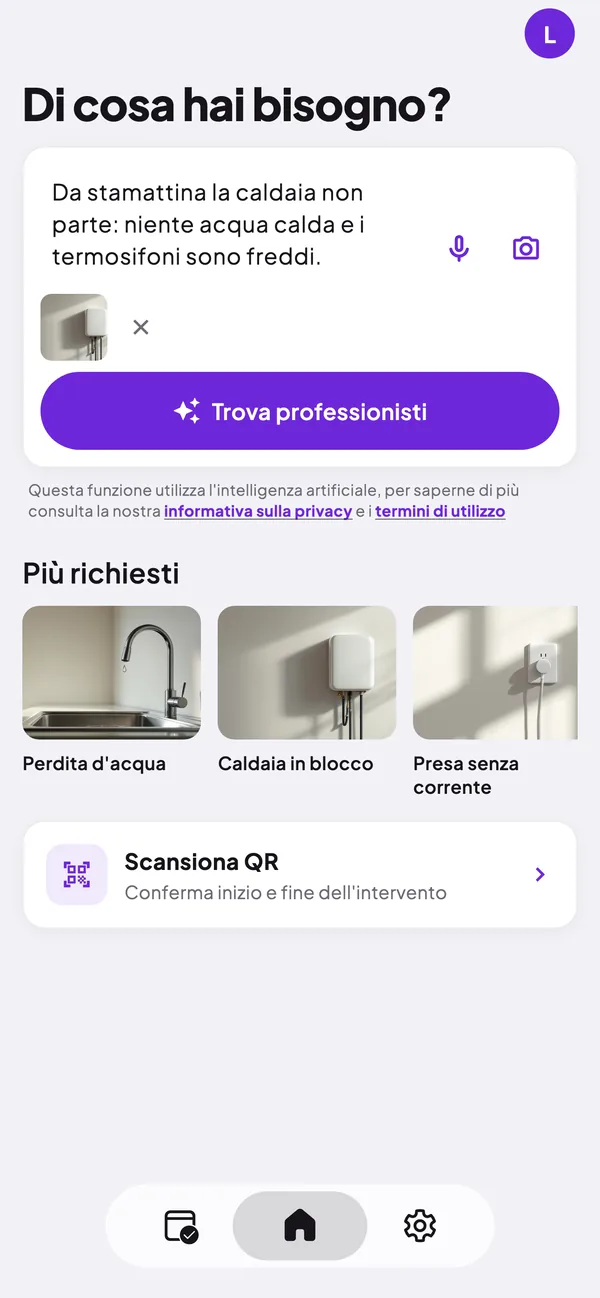
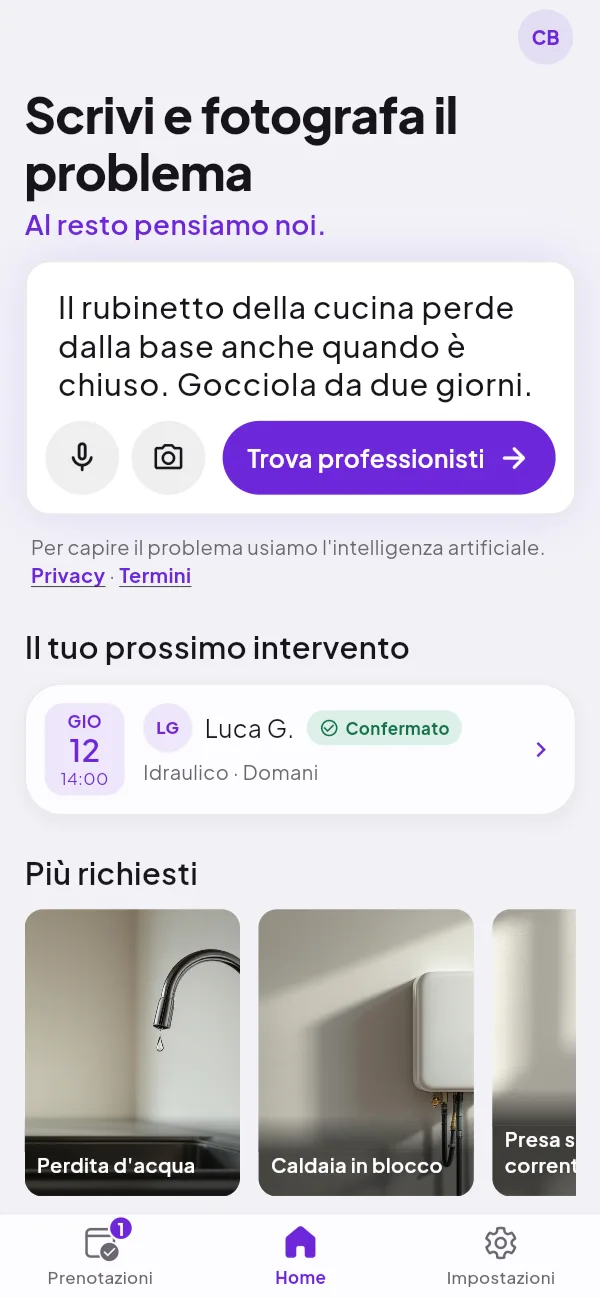
feat: schermate del sito rifatte dall'app di oggi
Le 17 schermate (guida clienti 8, guida professionisti 6, home 3) erano del
05/11, prima della revisione del cliente (mvp #855-#870). Rifatte dall'app
di staging, uguale alla build degli store, con i dati di prova: il
rubinetto della cucina che perde e l'idraulico Luca G. Stesse misure
(600x1298, 600x1304 per la home) e stessi nomi.

Descrizioni (alt) e testi che raccontavano le immagini vecchie aggiornati:
caldaia e termoidraulico diventano rubinetto e idraulico, stima di circa
€ 90, preventivo a tre voci, orari dalle 8 alle 18.

diff --git a/app/(site)/clienti/page.tsx b/app/(site)/clienti/page.tsx
@@ -28,43 +28,43 @@ export const metadata: Metadata = pageMetadata({
 const STEPS: GuideStep[] = [
   {
     id: "racconta", short: "Il problema", src: `${G}/01.webp`,
-    alt: "Schermata iniziale: campo «Di cosa hai bisogno?» con la descrizione di una caldaia che non parte, una foto allegata e il bottone «Trova professionisti».",
+    alt: "Schermata iniziale: «Scrivi e fotografa il problema» con la descrizione di un rubinetto della cucina che perde, il bottone «Trova professionisti» e il prossimo intervento già fissato.",
     title: "Scrivi cosa succede e fai una foto",
-    text: "Scrivilo come lo diresti a un amico: «da stamattina la caldaia non parte e i termosifoni sono freddi». Non serve sapere chi chiamare.",
-    points: ["Scrivi nel campo «Di cosa hai bisogno?»", "Aggiungi una foto con la fotocamera", "Tocca «Trova professionisti»"],
+    text: "Scrivilo come lo diresti a un amico: «il rubinetto della cucina perde dalla base anche quando è chiuso». Non serve sapere chi chiamare.",
+    points: ["Scrivi nel campo sotto «Scrivi e fotografa il problema»", "Aggiungi una foto con la fotocamera", "Tocca «Trova professionisti»"],
     tip: "Fotografa il guasto da vicino e poi da un passo indietro: così si capisce anche dove si trova.",
   },
   {
     id: "domande", short: "Le domande", src: `${G}/02.webp`,
-    alt: "Schermata «Capiamo il problema»: la domanda «Sul display della caldaia vedi un codice di errore o una spia accesa?» con tre risposte da toccare, «Altro» e «Non lo so».",
+    alt: "Schermata «Domanda 1»: l'intelligenza artificiale chiede se l'acqua gocciola sotto il lavello o solo sopra, sul piano, con tre risposte da toccare e «Non lo so».",
     title: "Rispondi a due o tre domande",
     text: "L'intelligenza artificiale chiede quello che le serve per capire il guasto. Le risposte sono già scritte, basta toccare quella giusta.",
     points: ["Tocca la risposta che corrisponde a quello che vedi", "Se non sei sicuro, scegli «Non lo so»"],
   },
   {
     id: "diagnosi", short: "Il riepilogo", src: `${G}/03.webp`,
-    alt: "Schermata «Cosa abbiamo capito»: chi serve, Termoidraulico, urgenza 3 su 5, la spiegazione dell'intelligenza artificiale e le cause più probabili.",
+    alt: "Schermata «Abbiamo capito»: chi ti serve, Idraulico, meglio entro pochi giorni, la causa più probabile e le altre possibili, e il bottone «Trova un idraulico».",
     title: "Controlla cosa ha capito Pluggers",
     text: "Prima di cercare vedi il riepilogo: quale professionista serve, quanto è urgente e le cause più probabili.",
     points: ["Il mestiere, per esempio idraulico", "L'urgenza, da 1 a 5", "Se il riepilogo è sbagliato, tocca «Non è questo il problema» e correggi"],
   },
   {
     id: "scegli", short: "I professionisti", src: `${G}/04.webp`,
-    alt: "Schermata «Risultati»: cinque termoidraulici con valutazione, numero di recensioni e zona, due selezionati, e il bottone «Continua con 2 professionisti».",
+    alt: "Schermata «Idraulici vicino a te»: otto professionisti con valutazione o «Nuovo su Pluggers» e distanza, due scelti, e il bottone «Continua con 2 professionisti».",
     title: "Scegli fino a cinque professionisti",
     text: "Vedi chi fa quel mestiere vicino a te, con le recensioni dei clienti per cui ha già lavorato. La richiesta arriva a tutti quelli che scegli.",
     points: ["Nome, valutazione e numero di recensioni", "La zona in cui lavora", "Puoi guardarli anche sulla mappa"],
   },
   {
     id: "giorno", short: "Il giorno", src: `${G}/05.webp`,
-    alt: "Schermata «Prenota»: il calendario di novembre con i giorni disponibili cerchiati in viola e il bottone «Invia la richiesta».",
+    alt: "Schermata «Prenota»: la richiesta a due idraulici, il calendario di novembre con i giorni disponibili cerchiati in viola e il bottone «Invia la richiesta».",
     title: "Scegli il giorno",
     text: "Seleziona uno dei giorni cerchiati in viola: sono quelli disponibili. Il professionista ti proporrà un orario in chat, che potrai valutare prima di confermare l'appuntamento.",
     points: ["Tocca il giorno che preferisci", "Tocca «Invia la richiesta»"],
   },
   {
     id: "stima", short: "La stima", src: `${G}/06.webp`,
-    alt: "Chat con il professionista: il tuo messaggio, la risposta del professionista e la scheda «Stima» di circa € 120 con il lavoro previsto, i materiali e i bottoni «Accetta» e «Rifiuta».",
+    alt: "Chat con il professionista: la scheda della richiesta con l'appuntamento confermato e la scheda «Stima» di circa € 90 con il lavoro previsto, i materiali e i bottoni «Accetta» e «Rifiuta».",
     title: "Ricevi la stima in chat",
     text: "Il professionista legge la scheda del problema preparata dall'intelligenza artificiale. Poi ti scrive quanto può costare il lavoro. Se chiede un Costo Chiamata, cioè la cifra per il sopralluogo, lo trovi all'interno della stima.",
     points: ["La stima è indicativa: il prezzo esatto è nel preventivo, dopo il sopralluogo", "Tocca «Accetta» e l'appuntamento è confermato: le richieste agli altri professionisti si chiudono", "Tocca «Rifiuta» e non devi fare niente"],
@@ -72,7 +72,7 @@ const STEPS: GuideStep[] = [
   },
   {
     id: "preventivo", short: "Il preventivo", src: `${G}/07.webp`,
-    alt: "Schermata «Documento»: il preventivo con quattro voci e il loro prezzo, imponibile, IVA 22% e totale, e i bottoni «Apri» e «Scarica» per il PDF.",
+    alt: "Schermata «Preventivo»: il totale, le tre voci con il loro prezzo, imponibile, IVA 22% e totale, le condizioni e i bottoni «Accetta» e «Rifiuta».",
     title: "Dopo il sopralluogo, il preventivo",
     text: "Il professionista ti manda il preventivo in chat. Ogni voce ha il suo prezzo, poi trovi imponibile, IVA e totale.",
     points: ["Toccalo per vedere il dettaglio e aprire o scaricare il PDF", "Tocca «Accetta» o «Rifiuta» sulla scheda in chat", "Se durante il lavoro il prezzo cambia, ricevi un preventivo aggiornato con motivo e foto. Decidi tu se accettarlo"],
@@ -80,7 +80,7 @@ const STEPS: GuideStep[] = [
   },
   {
     id: "intervento", short: "L'intervento", src: `${G}/08.webp`,
-    alt: "Schermata «Dettaglio intervento»: il professionista, lo stato con l'invito a inquadrare il QR, quando e dove, il problema, il Costo Chiamata, il preventivo e il bottone «Scansiona QR».",
+    alt: "Schermata dell'intervento: il professionista, quando e dove, la stima, lo stato da «In attesa» a «Completato», «Scansiona QR» e il bottone «Vai alla chat».",
     title: "Il giorno dell'intervento",
     text: "Nella scheda dell'appuntamento trovi data, indirizzo, problema e prezzo concordato. Il QR si usa due volte: quando il lavoro inizia e quando finisce.",
     points: ["All'inizio tocca «Scansiona QR» e inquadra il codice sul telefono del professionista", "A lavoro finito inquadra il QR di fine lavoro", "Poi puoi lasciare una recensione"],

diff --git a/app/(site)/professionisti/page.tsx b/app/(site)/professionisti/page.tsx
@@ -30,7 +30,7 @@ const G = "/guida/professionisti";
 const STEPS: GuideStep[] = [
   {
     id: "mestieri", short: "Mestieri", src: `${G}/01.webp`,
-    alt: "Profilo professionista, passo 1 di 5: «I tuoi mestieri» con l'elenco dei mestieri e la descrizione di ciascuno.",
+    alt: "Impostazioni del professionista, «Mestieri»: la griglia dei mestieri con «Idraulico» scelto e la riga «Lavori e specialità».",
     title: "Scegli i tuoi mestieri",
     text: "Indica tutti i mestieri che fai. Per ognuno i lavori più comuni sono già selezionati.",
     points: ["Puoi sceglierne più di uno", "Togli i lavori che non fai", "Aggiungi le specializzazioni"],
@@ -38,21 +38,21 @@ const STEPS: GuideStep[] = [
   },
   {
     id: "raggio", short: "Zona", src: `${G}/02.webp`,
-    alt: "Profilo professionista: «Fin dove ti sposti» con il cursore del raggio d'azione a 20 km, la sezione «Dove lavori» e «Documento d'identità» con i riquadri per fronte e retro.",
+    alt: "Impostazioni del professionista, «Zona di lavoro»: l'indirizzo di partenza e il cursore del raggio a 20 km, da 1 a 200 km.",
     title: "Decidi fin dove ti sposti",
     text: "Inserisci l'indirizzo da cui parti e il raggio, da 1 a 200 km. Ti trovano solo i clienti entro quella distanza.",
     points: ["Il raggio si imposta con il cursore", "Le città in cui lavori, anche più di una", "La descrizione dell'attività e la partita IVA", "Il documento d'identità, fronte e retro: serve solo a noi, i clienti non lo vedono"],
   },
   {
     id: "disponibilita", short: "Orari", src: `${G}/03.webp`,
-    alt: "Profilo professionista, passo 5 di 5: «La tua disponibilità» con l'orario dalle 9 alle 18 e i giorni lavorativi selezionati.",
+    alt: "Impostazioni del professionista, «Orari di lavoro»: lo stesso orario tutti i giorni, dalle 8 alle 18, dal lunedì al sabato.",
     title: "Imposta orari e giorni",
     text: "Indica la fascia oraria e i giorni in cui accetti interventi, poi salva il profilo.",
-    points: ["Dalle 9 alle 18, o la fascia che preferisci", "I giorni in cui lavori, uno per uno", "Tocca «Salva» e il profilo è pronto"],
+    points: ["Dalle 8 alle 18, o la fascia che preferisci", "I giorni in cui lavori, uno per uno", "Tocca «Salva» e il profilo è pronto"],
   },
   {
     id: "richieste", short: "Richieste", src: `${G}/04.webp`,
-    alt: "Sezione «Richieste»: le schede «Nuove» e «In corso», il bottone «Ordina e filtra» e tre richieste con il problema, il giorno, la distanza, la cifra indicativa e il bottone «Accetta e invia la stima».",
+    alt: "Sezione «Richieste»: le schede «Nuove» e «In corso», il bottone «Ordina e filtra» e una richiesta con il problema, il giorno, la distanza, la cifra indicativa e il bottone «Accetta e invia la stima».",
     title: "Ricevi le richieste",
     text: "Le richieste arrivano dai clienti della tua zona che ti hanno scelto. Ognuna ha giorno, mestiere, problema, distanza da te e una cifra di riferimento calcolata dall'app.",
     points: ["Apri quelle che ti interessano", "Rifiuta le altre"],
@@ -60,7 +60,7 @@ const STEPS: GuideStep[] = [
   },
   {
     id: "preventivo", short: "Stima e preventivo", src: `${G}/05.webp`,
-    alt: "Schermata «Nuovo preventivo»: la stima automatica con la fascia tipica, le voci del preventivo e il bottone «Invia preventivo».",
+    alt: "Schermata «Preventivo per Davide»: la fascia tipica per lavori come questo, tre voci con il loro prezzo, la nota e il bottone «Invia a Davide».",
     title: "Prima la stima, dopo il sopralluogo il preventivo",
     text: "Prima del sopralluogo mandi una stima: quanto può costare il lavoro e l'eventuale Costo Chiamata. Se il cliente la accetta, l'appuntamento è confermato. Dopo il sopralluogo mandi il preventivo; puoi poi eseguire l'intervento subito o in un altro giorno.",
     points: ["L'app ti suggerisce una cifra, sta a te poi definirla e confermarla", "Imponibile, IVA e totale li calcola l'app, il cliente riceve anche il PDF del preventivo", "Se in corso d'opera il prezzo cambia, mandi un preventivo aggiornato con motivo e foto"],
@@ -68,7 +68,7 @@ const STEPS: GuideStep[] = [
   },
   {
     id: "agenda", short: "Agenda", src: `${G}/06.webp`,
-    alt: "Agenda del professionista in vista settimanale, con la scelta tra «Giorno», «Settimana» e «Mese», due interventi dal 5 al 7 novembre e il bottone «Appuntamento cliente esterno».",
+    alt: "Agenda del professionista in vista settimanale, con la scelta tra «Giorno», «Settimana» e «Mese», due interventi il 12 novembre e il bottone «Appuntamento cliente esterno».",
     title: "Gli appuntamenti in agenda",
     text: "Gli interventi confermati entrano in agenda da soli. Puoi segnare anche gli appuntamenti dei tuoi clienti di sempre, anche se non ti hanno contattato da Pluggers: così hai tutto in un'unica app.",
     points: ["Giorno, settimana o mese: scegli la vista che ti serve", "Lo stato di ogni appuntamento"],

diff --git a/lib/home.ts b/lib/home.ts
@@ -45,19 +45,19 @@ export const HOW = {
       title: "Racconta il problema",
       text: "Scrivi due righe e aggiungi una foto. Se serve, l'intelligenza artificiale ti fa qualche domanda senza termini tecnici.",
       src: "/screens/step-describe.png",
-      alt: "Schermata iniziale dell'app: campo «Di cosa hai bisogno?» con la descrizione di una caldaia che non parte, una foto allegata e il bottone «Trova professionisti».",
+      alt: "Schermata iniziale dell'app: «Scrivi e fotografa il problema» con la descrizione di un rubinetto che perde e il bottone «Trova professionisti».",
     },
     {
       title: "Pluggers capisce di che si tratta",
       text: "Riconosce il mestiere, l'urgenza e le cause più probabili, poi mostra i professionisti della tua zona. Scegli chi contattare, fino a cinque, e il giorno tra quelli disponibili: l'orario lo propone il professionista.",
       src: "/screens/step-triage.png",
-      alt: "Schermata «Cosa abbiamo capito»: chi serve (Termoidraulico), urgenza 3 su 5, cause probabili e bottone «Cerca un professionista».",
+      alt: "Schermata «Abbiamo capito»: chi ti serve (Idraulico), meglio entro pochi giorni, le cause probabili e il bottone «Trova un idraulico».",
     },
     {
       title: "Prima stima, poi preventivo, e il QR a inizio e fine lavoro",
       text: "Il professionista ti manda in chat una stima e, se lo chiede, il Costo Chiamata. Dopo il sopralluogo arriva il preventivo. Il QR si scansiona all'inizio e alla fine del lavoro, poi lasci la recensione.",
       src: "/screens/step-estimate.png",
-      alt: "Chat con il professionista: il messaggio del cliente, la risposta del professionista e una stima di circa € 120 con i bottoni Accetta e Rifiuta.",
+      alt: "Chat con il professionista: la richiesta con l'appuntamento confermato e una stima di circa € 90 con i bottoni Accetta e Rifiuta.",
     },
   ],
 };

diff --git a/app/(site)/chi-siamo/page.tsx b/app/(site)/chi-siamo/page.tsx
@@ -43,7 +43,7 @@ export default function ChiSiamoPage() {
         {/* The box fits the phones (571px tall from sm, 502px below) and shrinks on narrow screens: the rotated phone used to stick out of the right margin, and past the edge on 360px phones. */}
         <div className="relative mx-auto h-[520px] w-[340px] max-w-full sm:h-[590px] sm:w-[420px]">
           <GuidePhone src="/guida/professionisti/04.webp" alt="Le richieste dei clienti vicini, nell'app del professionista" priority className="absolute left-0 top-6 rotate-[-4deg] scale-[0.86] opacity-95" />
-          <GuidePhone src="/guida/clienti/01.webp" alt="La richiesta del cliente: il problema descritto con una foto" priority className="absolute right-4 top-0 rotate-[3deg]" />
+          <GuidePhone src="/guida/clienti/01.webp" alt="La richiesta del cliente: il problema descritto in due righe" priority className="absolute right-4 top-0 rotate-[3deg]" />
         </div>
       </section>
 

diff --git a/app/(site)/i/[code]/page.tsx b/app/(site)/i/[code]/page.tsx
@@ -77,7 +77,7 @@ export default async function InvitePage({ params, searchParams }: Props) {
           <div className="flex justify-center">
             <GuidePhone
               src="/guida/clienti/01.webp"
-              alt="Schermata iniziale dell'app: il campo «Di cosa hai bisogno?» con la descrizione di un guasto, una foto allegata e il bottone «Trova professionisti»."
+              alt="Schermata iniziale dell'app: «Scrivi e fotografa il problema» con la descrizione di un guasto e il bottone «Trova professionisti»."
               priority
               className="lg:rotate-[3deg]"
             />
